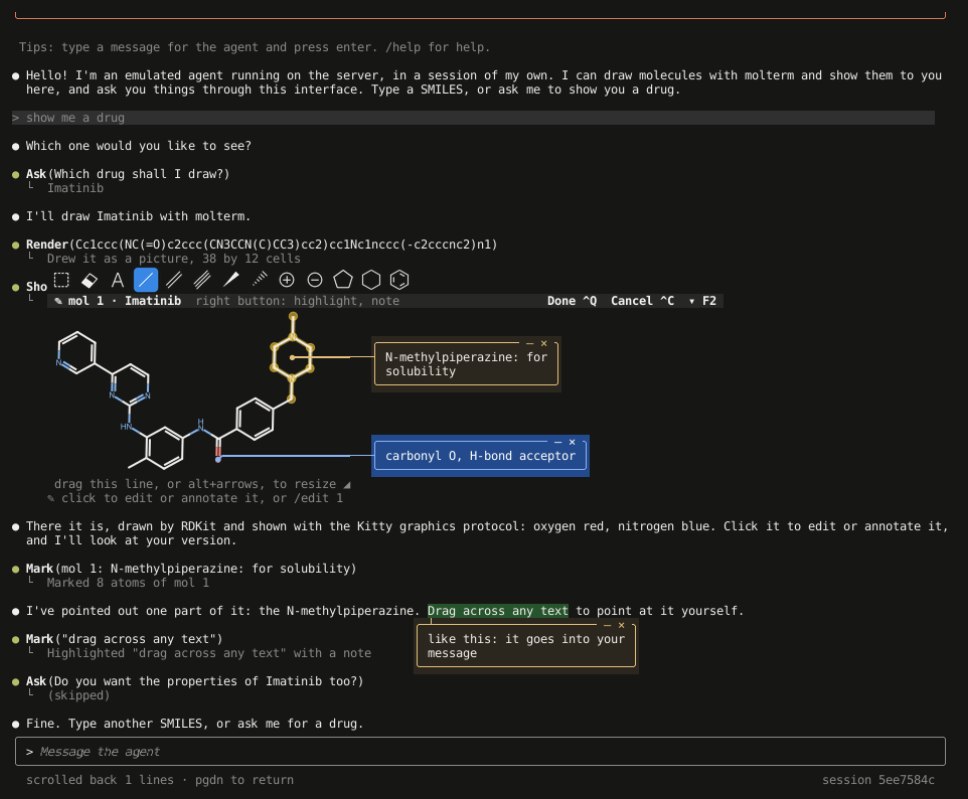
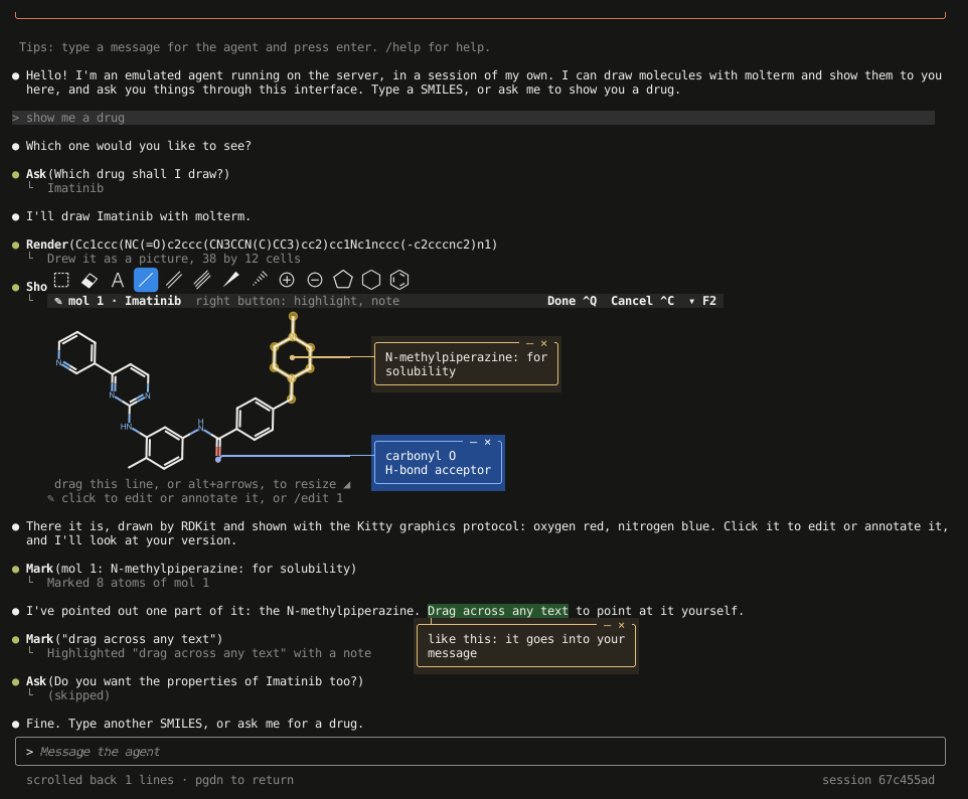
The agent's GIFs and shots taken again; the editing demo types its note in the bubble, on two lines

Changed region(s): [[0.3719, 0.5407, 0.6198, 0.6308], [0.9298, 0.9612, 0.9607, 0.9912]]

diff --git a/docs/screenshots/agent_features.py b/docs/screenshots/agent_features.py
@@ -1,7 +1,7 @@
 """Record the agent's pointing and editing features, from the running dev agent: `make agent-gif` (with agent_gif.py).
 
-    docs/images/molterm-agent-annotate.gif  a molecule edited where it is shown: a note added, its bubble at once, the drawing made
-                                            larger, Done, and the edit clicked into a message for the agent
+    docs/images/molterm-agent-annotate.gif  a molecule edited where it is shown: a note typed in its bubble on two lines, the drawing
+                                            made larger, Done, and the edit clicked into a message for the agent
     docs/images/molterm-agent-point.gif     pointing things out: a bubble dragged aside, text dragged across and highlighted from
                                             its menu, its context clicked into a message, and the agent marking it as seen
     docs/images/molterm-agent-inline.png    the inline editor, with its notes in bubbles beside the drawing
@@ -81,9 +81,12 @@ def annotate(p):
         pause(1.5)
         click(247, 695)                          # Note...
         pause(1)
-        page.keyboard.type("carbonyl O, H-bond acceptor", delay=70)
-        pause(0.5)
-        page.keyboard.press("Enter")             # the bubble, at once
+        page.keyboard.type("carbonyl O", delay=70)  # typed in its bubble, at the end of its leader
+        pause(0.4)
+        page.keyboard.press("Shift+Enter")       # a second line
+        page.keyboard.type("H-bond acceptor", delay=70)
+        pause(0.8)
+        page.keyboard.press("Enter")             # kept
         pause(3)
         shot(page, "molterm-agent-inline.png")
         page.keyboard.press("Alt+ArrowDown")     # a larger drawing, the transcript making room
